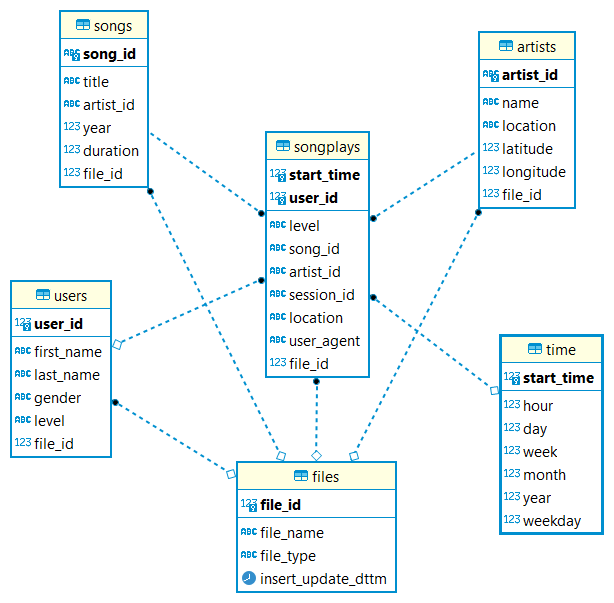
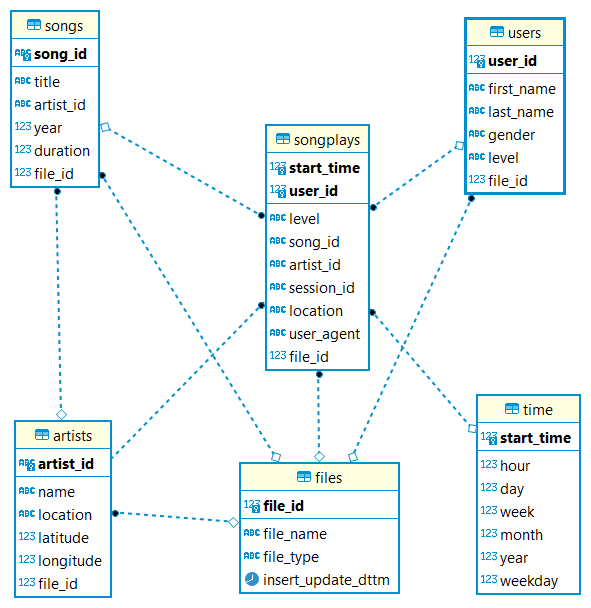
Writing the description for the project

diff --git a/README.md b/README.md
@@ -15,8 +15,65 @@ One of their goals to know what songs are being listened by their users.
    - START_TIME: The timestamp in millisecond for the transaction.
    - USER_ID: The user id for the user who generated this transaction.
      It is a foreign key from the USERS table.
-   - LEVEL: The type of the user either free or paid. 
+   - LEVEL: The type of the user either free or paid. It holds the 
+     level of the user at the timestamp of this transaction.  
    - SONG_ID: The id of the song which has been played by the user.
      It is a foreign key from the SONGS table.
    - ARTIST_ID: The is of the artist for the song played.
      It is a foreign key from ARTISTS table.
+   - SESSION_ID: Id for the web session which user was using and resulted
+     in generating this transaction.
+   - USER_AGENT: text which specify the OS type and version and browser     
+     version and type.
+   - FILE_ID: Id for the file which is used in loading 
+     this row. It is a foreign key from table FILES.  
+- ARTISTS: A table which holds list of artists and any information
+  related to them.
+  The following are the columns and their description:
+  - ARTIST_ID: Unique id for the artist in this table.
+  - NAME: Name of the artist.
+  - LOCATION: The location of the artist geographically.
+  - LATITUDE: The latitude of for the artist location. 
+  - LONGITUDE: The longitude of the artist location.
+  - FILE_ID: Id for the file which is used in loading this row. 
+    It is a foreign key from table FILES.
+- SONGS: This table holds list of songs and any information related to them.
+  The following are the columns and their description:
+  - SONG_ID: Unique id for the song in thi table.
+  - TITLE: The title of name of the song.
+  - ARTIST_ID: The id of the artist of this song.
+    It is a foreign key from ARTISTS table.
+  - YEAR: The production year of this song. 
+  - DURATION: The playing duration of the song.
+  - FILE_ID: Id for the file which is used in loading this row. 
+    It is a foreign key from table FILES.
+- TIME: It is a table for all the timestamps appeared in the transactions 
+  loaded in the SONGPLAYS table. It contains addition columns
+  derived from the timestamp column itself. These can be used to get 
+  insights on different levels (hour,day,week,weekday,month,year).
+  
+- USERS: This table holds all the users who caused in generating any song 
+  playing transaction.
+  The following are the columns and their description:
+  - USER_ID: Unique Id for the user in the table.
+  - FIRST_NAME:The first name for the user.
+  - LAST_NAME: The last name for the user.
+  - GENDER: the gender of the user(M:male,F:female)
+  - LEVEL: The type of the user either free or paid. This column holds the
+    latest level for the user appeared into the last log file loaded.
+  - FILE_ID: Id for the file which is used in loading this row. 
+    It is a foreign key from table FILES.
+
+- FILES: This table hold all the files which had been loaded in this model.
+  This table has no relation to the business of the model itself. 
+  It is a metadata table.It has been added as type of traceability for 
+  the source file of each row in the model to help in investigating 
+  in any data quality issue from the source.
+  The following are the columns and their description:
+  - FILE_ID: Unique id for the row in this table.
+  - FILE_NAME: Name of the file. 
+  - FILE_TYPE: Type of the file(SNG:Song file,LOG:Log file).
+  - INSERT_UPDATE_DTTM: Timestamp for the loading the file. Either it is
+    the first time to load or it is loaded again. This timestamp is updated
+    everytime the file is loaded. This can help in knowing if the file has
+    been loaded or reloaded.
